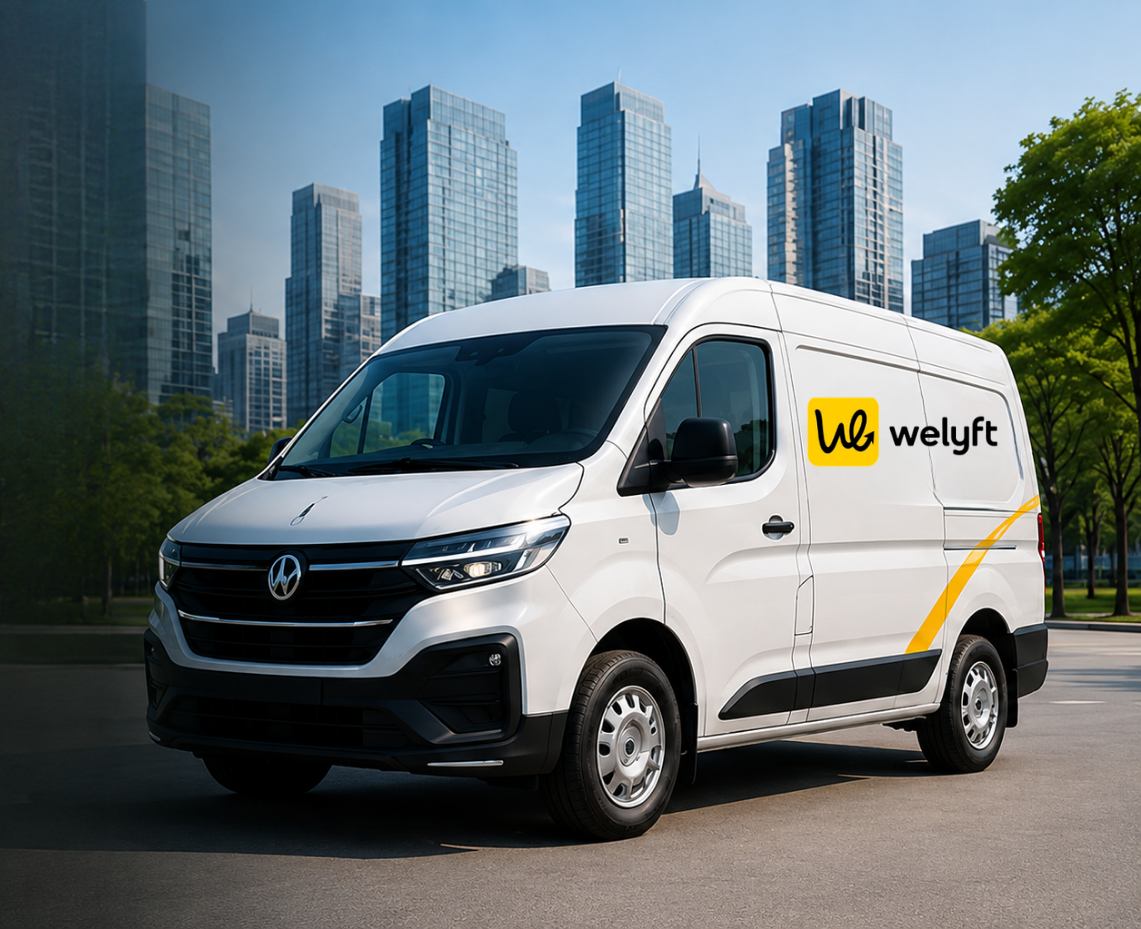
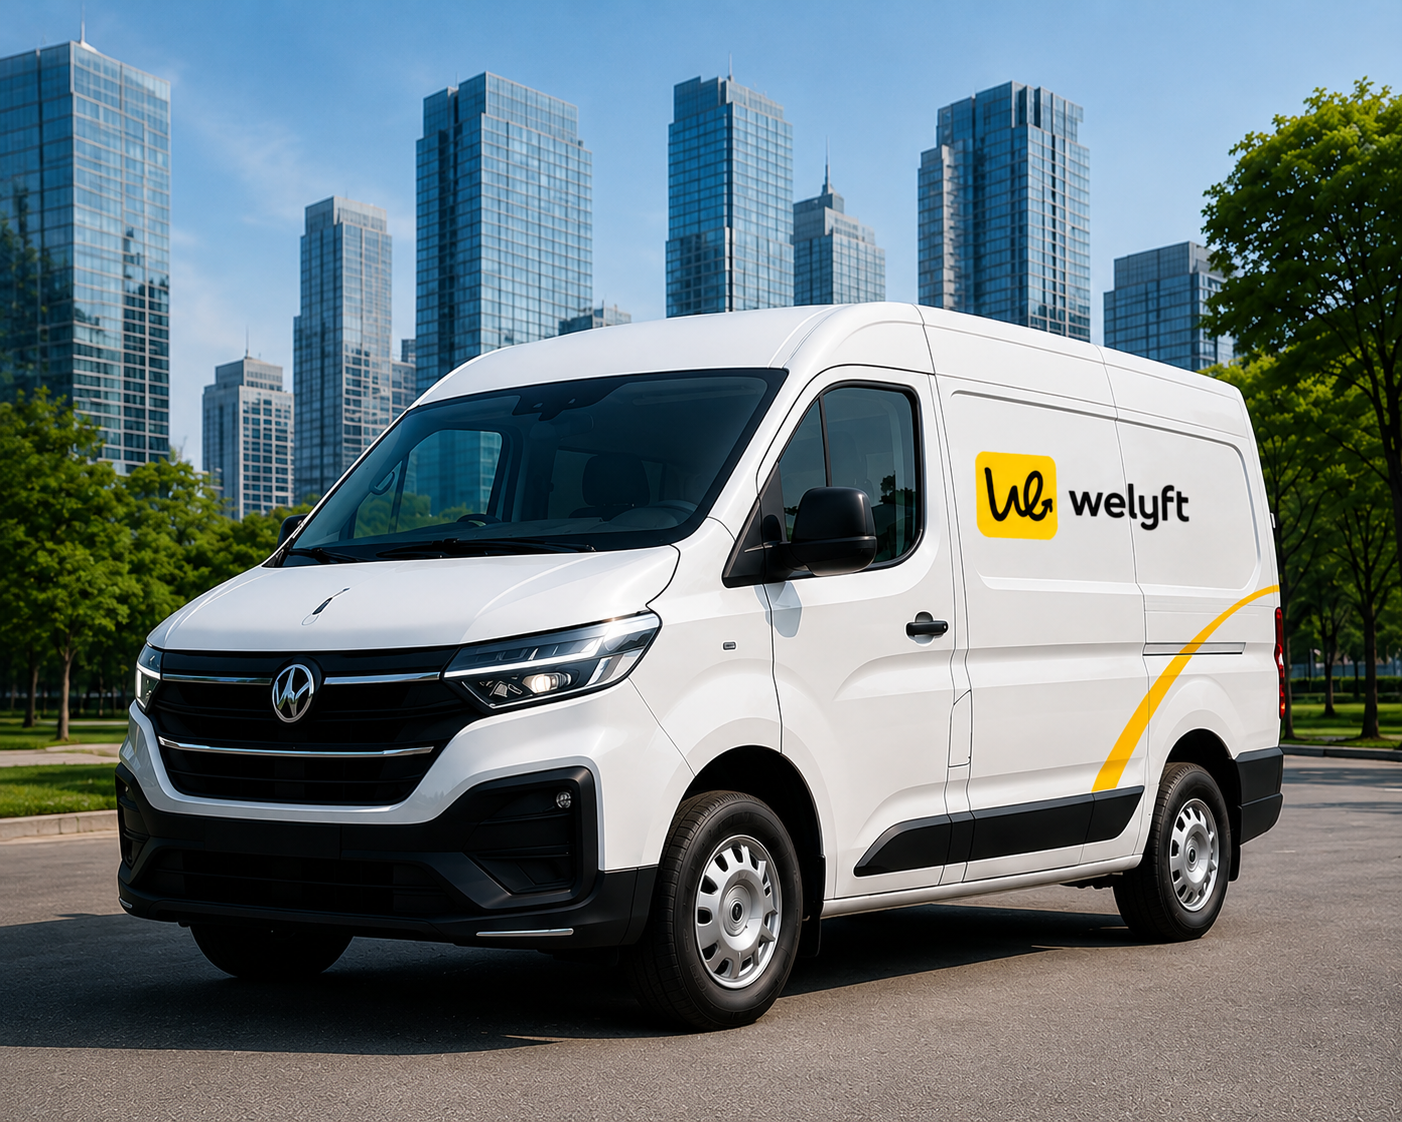
Carrer and Service page changes

diff --git a/src/components/CareersSection.jsx b/src/components/CareersSection.jsx
@@ -63,76 +63,108 @@ const CareersSection = () => {
             className="bg-white px-5 py-4 rounded-2xl border border-gray-300 text-lg w-full md:w-[400px] shadow-sm focus:outline-none"
           />
 
-          <select
-            value={type}
-            onChange={(e) => setType(e.target.value)}
-            className="bg-white px-5 py-4 rounded-2xl border border-gray-300 text-lg shadow-sm focus:outline-none"
-          >
-            <option>All Types</option>
-            <option>Full-Time</option>
-            <option>Part-Time</option>
-            <option>Remote</option>
-          </select>
+          <div className="relative">
+            <select
+              className="appearance-none bg-white px-4 py-4 pr-12 rounded-2xl border border-gray-300 text-md shadow-sm focus:outline-none"
+            >
+              <option>All Types</option>
+              <option>Full Time</option>
+              <option>Part Time</option>
+              <option>Remote</option>
+            </select>
 
-          <select
-            value={country}
-            onChange={(e) => setCountry(e.target.value)}
-            className="bg-white px-5 py-4 rounded-2xl border border-gray-300 text-lg shadow-sm focus:outline-none"
-          >
-            <option>All</option>
-            <option>India</option>
-            <option>Singapore</option>
-          </select>
+            <div className="pointer-events-none absolute inset-y-0 right-4 flex items-center">
+              <svg
+                className="w-5 h-5 text-gray-500"
+                fill="none"
+                stroke="currentColor"
+                viewBox="0 0 24 24"
+              >
+                <path
+                  strokeLinecap="round"
+                  strokeLinejoin="round"
+                  strokeWidth="2"
+                  d="M19 9l-7 7-7-7"
+                />
+              </svg>
+            </div>
+          </div>
+
+          <div className="relative">
+            <select
+              className="appearance-none bg-white px-4 py-4  rounded-2xl border border-gray-300 text-md shadow-sm focus:outline-none"
+            >
+              <option>All</option>
+              <option>India</option>
+              <option>Singapore</option>
+            </select>
+
+            <div className="pointer-events-none absolute inset-y-0 right-4 flex items-center">
+              <svg
+                className="w-5 h-5 text-gray-500"
+                fill="none"
+                stroke="currentColor"
+                viewBox="0 0 24 24"
+              >
+                <path
+                  strokeLinecap="round"
+                  strokeLinejoin="round"
+                  strokeWidth="2"
+                  d="M19 9l-7 7-7-7"
+                />
+              </svg>
+            </div>
+          </div>
         </div>
 
         <div className="mt-16 space-y-6 max-h-[700px] overflow-y-auto pr-3">
 
-  {jobsLoading ? (
-    <div className="text-center py-16 text-gray-500">
-      Loading jobs...
-    </div>
-  ) : filteredJobs.length === 0 ? (
-    <div className="text-center py-16 text-gray-500">
-      No jobs found.
-    </div>
-  ) : (
-    filteredJobs.map((job, index) => (
-      <div
-        key={index}
-        className="bg-white border-l-4 border-yellow-400 rounded-xl p-5 shadow-sm hover:shadow-xl hover:-translate-y-1 transition-all duration-300"
-      >
-        <div className="flex flex-col lg:flex-row lg:items-start lg:justify-between gap-6">
-          <div>
-            <h2 className="text-2xl font-bold text-[#0A1F44]">
-              {job.title}
-            </h2>
+          {jobsLoading ? (
+            <div className="text-center py-16 text-gray-500">
+              Loading jobs...
+            </div>
+          ) : filteredJobs.length === 0 ? (
+            <div className="text-center py-16 text-gray-500">
+              No jobs found.
+            </div>
+          ) : (
+            filteredJobs.map((job, index) => (
+              <div
+                key={index}
+                className="bg-white border-l-4 border-yellow-400 rounded-xl p-5 shadow-sm hover:shadow-xl hover:-translate-y-1 transition-all duration-300"
+              >
+                <div className="flex flex-col lg:flex-row lg:items-start lg:justify-between gap-6">
+                  <div>
+                    <h2 className="text-2xl font-bold text-[#0A1F44]">
+                      {job.title}
+                    </h2>
 
-            <p className="text-gray-500 text-lg mt-3">
-              {job.type} • {job.location}
-            </p>
+                    <p className="text-gray-500 text-lg mt-3">
+                      {job.type} • {job.location}
+                    </p>
 
-            <p className="text-gray-600 text-lg mt-2 leading-relaxed">
-              {job.desc}
-            </p>
-          </div>
+                    <p className="text-gray-600 text-lg mt-2 leading-relaxed">
+                      {job.desc}
+                    </p>
+                  </div>
 
-          <button
-            type="button"
-            className="mt-6 bg-[#0A1F44] flex items-center gap-2 text-yellow-400 px-5 py-2 rounded-xl font-semibold hover:bg-yellow-400 hover:text-black transition-all duration-300"
-            onClick={() => {
-              setSelectedJob(job);
-              setShowModal(true);
-            }}
-          >
-            Apply Now
-            <FaArrowRight className="text-sm" />
-          </button>
+                  <button
+                    type="button"
+                    className="mt-6 bg-[#0A1F44] flex items-center gap-2 text-yellow-400 px-5 py-2 rounded-xl font-semibold hover:bg-yellow-400 hover:text-black transition-all duration-300"
+                    onClick={() => {
+                      setSelectedJob(job);
+                      setShowModal(true);
+                    }}
+                  >
+                    Apply Now
+                    <FaArrowRight className="text-sm" />
+                  </button>
+                </div>
+              </div>
+            ))
+          )}
+
         </div>
-      </div>
-    ))
-  )}
-
-</div>
       </div>
       {showModal && (
         <div className="fixed inset-0 bg-black/60 backdrop-blur-sm flex justify-center pt-24 items-start sm:items-center z-50 px-4 py-6 overflow-y-auto">

diff --git a/src/components/CareersHero.jsx b/src/components/CareersHero.jsx
@@ -5,14 +5,14 @@ const CareersHero = () => {
   return (
     <section
       id="careers"
-      className="relative pt-20 pb-12 flex min-h-[auto] sm:min-h-[85vh] items-center justify-center overflow-hidden bg-[#051223]"
+      className="relative pt-20 pb-12 flex min-h-[auto] sm:min-h-[100vh] items-center justify-center overflow-hidden bg-[#051223]"
     >
       <img
         src={careerBg}
         alt=""
-        className="absolute inset-0 h-full w-full object-cover object-center"
+        className="absolute inset-0 h-full w-full object-cover xl:object-fill object-center"
       />
-      <div className="absolute inset-0 bg-[linear-gradient(rgba(5,18,35,0.82),rgba(5,18,35,0.72))]" />
+      <div className="absolute inset-0 bg-[linear-gradient(rgba(5,18,35,0.42),rgba(5,18,35,0.62))]" />
 
       <div className="relative z-10 mx-auto max-w-6xl px-6 text-center py-8">
         <h1 className="text-2xl sm:text-4xl lg:text-6xl font-bold text-white mt-8 leading-tight">
@@ -26,9 +26,9 @@ const CareersHero = () => {
           logistics, technology, and sustainability innovation.
         </p>
 
-        <div className="mt-10 flex flex-col sm:flex-row justify-center gap-5">
+        <div className="mt-12 flex flex-col sm:flex-row justify-center gap-5">
           <a href="#jobs">
-            <button className="bg-yellow-400 text-black px-7 py-3 sm:px-8 sm:py-4 rounded-2xl font-bold hover:scale-105 transition-all duration-300 shadow-lg shadow-yellow-400/30">
+            <button className="bg-yellow-400 text-black text-md px-7 py-3 sm:px-8 sm:py-4 rounded-2xl font-bold hover:scale-105 transition-all duration-300 shadow-lg shadow-yellow-400/30">
               View Open Roles
             </button>
           </a>
@@ -41,27 +41,27 @@ const CareersHero = () => {
         </div>
 
         {/* Stats */}
-        <div className="grid grid-cols-2 xl:grid-cols-4 gap-4 sm:gap-6 mt-14 sm:mt-20">
-          <div className="bg-white/10 backdrop-blur-md rounded-2xl p-4 sm:p-6 border border-white/10">
-            <h2 className="text-4xl font-bold text-yellow-300">20+</h2>
-            <p className="text-gray-300 mt-2">Team Members</p>
+        <div className="grid grid-cols-2 xl:grid-cols-4 gap-4  sm:ml-11 sm:gap-6 mt-14 sm:mt-12">
+          <div className="bg-yellow-400 hover:bg-white backdrop-blur-md rounded-2xl py-0.5 border border-white/10">
+            <h2 className="text-xl font-bold text-black">20+</h2>
+            <h5 className="text-black text-sm">Team Members</h5>
           </div>
 
-          <div className="bg-white/10 backdrop-blur-md rounded-2xl p-4 sm:p-6 border border-white/10">
-            <h2 className="text-4xl font-bold text-yellow-300">100%</h2>
-            <p className="text-gray-300 mt-2">Electric Fleet</p>
+          <div className="bg-yellow-400 hover:bg-white backdrop-blur-md rounded-2xl py-0.5 border border-white/10">
+            <h2 className="text-xl font-bold text-black">100%</h2>
+            <h5 className="text-black text-sm">Electric Fleet</h5>
           </div>
 
-          <div className="bg-white/10 backdrop-blur-md rounded-2xl p-4 sm:p-6 border border-white/10">
-            <h2 className="text-4xl font-bold text-yellow-300">24/7</h2>
-            <p className="text-gray-300 mt-2">Operations</p>
+          <div className="bg-yellow-400 hover:bg-white backdrop-blur-md rounded-2xl py-0.5 border border-white/10">
+            <h2 className="text-xl font-bold text-black">24/7</h2>
+            <h5 className="text-black text-sm">Operations</h5>
           </div>
 
-          <div className="bg-white/10 backdrop-blur-md rounded-2xl p-4 sm:p-6 border border-white/10">
-            <h2 className="text-2xl font-bold text-yellow-300 sm:text-3xl lg:text-4xl">
+          <div className="bg-yellow-400 hover:bg-white backdrop-blur-md rounded-2xl py-0.5 border border-white/10">
+            <h2 className="text-xl font-bold text-black">
               Singapore
             </h2>
-            <p className="text-gray-300 mt-2">Headquarters</p>
+            <h5 className="text-black text-sm ">Headquarters</h5>
           </div>
         </div>
       </div>

diff --git a/src/pages/ServicePage.jsx b/src/pages/ServicePage.jsx
@@ -10,7 +10,7 @@ const servicesData = {
     badge: "B2B",
     image:
       "https://images.unsplash.com/photo-1586528116311-ad8dd3c8310d?w=1800&auto=format&fit=crop&q=80",
-    headline: "Enterprise Deliveries That Actually Perform",
+    headline: "Enterprise Deliveries That Perform",
     tagline: "Bulk moves, zero excuses",
     desc: 'From healthcare equipment to FMCG distribution, Welyft runs enterprise-grade B2B deliveries on a 100% electric fleet. You get dedicated capacity, SLA-backed reliability, and real-time CO₂ evidence for your Scope-3 ESG reporting — not estimates, not "we\'ll send a report at quarter-end." Every delivery generates a verifiable carbon savings record the moment your shipment is booked.',
     features: [
@@ -409,7 +409,7 @@ export default function ServicePage() {
               </div>
 
               <div
-                className="bg-white rounded-3xl p-7 border border-black/6 flex-1"
+                className="bg-white rounded-3xl p-3 border border-black/6 flex-1"
                 style={{ boxShadow: "0 4px 24px rgba(0,0,0,0.06)" }}
               >
                 <h3 className="text-sm font-black uppercase tracking-widest text-gray-400 mb-4">
@@ -433,7 +433,7 @@ export default function ServicePage() {
                         <span className="truncate">
                           {s.badge === "Platform"
                             ? "Welyft OS"
-                            : s.headline.split(" ").slice(0, 2).join(" ")}
+                            : s.headline.split(" ").slice(0, 10).join(" ")}
                         </span>
                       </Link>
                     ))}

diff --git a/src/components/Services.jsx b/src/components/Services.jsx
@@ -98,7 +98,7 @@ const Services = () => {
   return (
     <section
       id="services"
-      className="scroll-mt-26 relative overflow-hidden bg-[#F6F5F0] pt-16"
+      className="scroll-mt-16 relative overflow-hidden bg-[#F6F5F0] pt-16"
     >
       <div className="relative z-10 flex flex-col mx-auto  max-w-8xl px-4 sm:px-5 lg:px-10 ">
       <div className="absolute inset-x-0 top-0 h-32 bg-linear-to-b from-[#F6F5F0] to-transparent" />